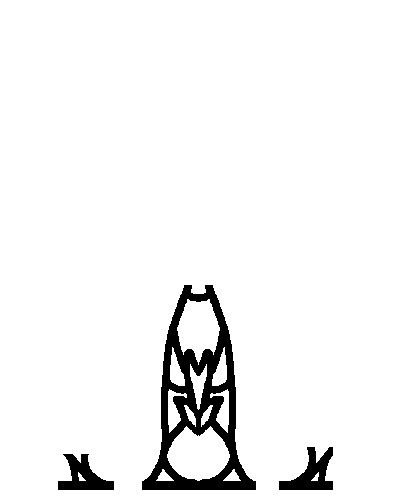
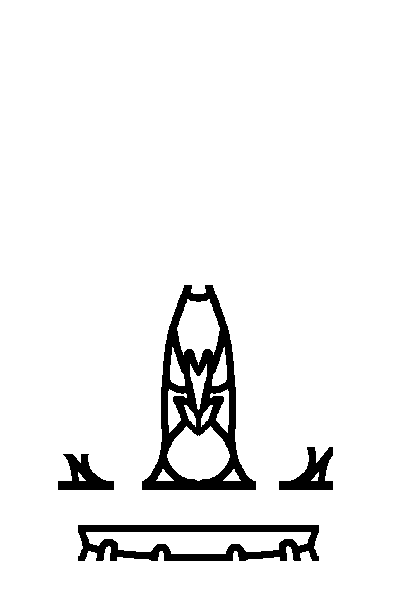
woman in kitchen

Changed region(s): [[0.1511, 0.4518, 0.8463, 0.994], [0.6952, 0.7229, 0.8463, 0.8434], [0.1511, 0.753, 0.3023, 0.8434]]

diff --git a/resources/Obiekty.tsx b/resources/Obiekty.tsx
@@ -1,5 +1,5 @@
 <?xml version="1.0" encoding="UTF-8"?>
-<tileset version="1.10" tiledversion="1.10.2" name="Obiekty" tilewidth="1162" tileheight="725" tilecount="14" columns="0">
+<tileset version="1.10" tiledversion="1.10.2" name="Obiekty" tilewidth="1162" tileheight="1150" tilecount="17" columns="0">
  <grid orientation="orthogonal" width="1" height="1"/>
  <tile id="0">
   <image width="506" height="677" source="credenss.png"/>
@@ -26,7 +26,7 @@
   <image width="1162" height="694" source="table.png"/>
  </tile>
  <tile id="8">
-  <image width="397" height="490" source="kitchenGirlSkin.png"/>
+  <image width="397" height="1150" source="kitchenGirlSkin.png"/>
  </tile>
  <tile id="9">
   <image width="397" height="490" source="kitchenGirlHair.png"/>
@@ -41,6 +41,15 @@
   <image width="279" height="99" source="kitchenLampClosh.png"/>
  </tile>
  <tile id="13">
-  <image width="397" height="498" source="kitchenGirlShirt.png"/>
+  <image width="397" height="600" source="kitchenGirlShirt.png"/>
+ </tile>
+ <tile id="14">
+  <image width="343" height="500" source="kitchenGirlTrousers.png"/>
+ </tile>
+ <tile id="15">
+  <image width="169" height="60" source="kitchenGirlShoes.png"/>
+ </tile>
+ <tile id="16">
+  <image width="344" height="765" source="kitchenChair.png"/>
  </tile>
 </tileset>
